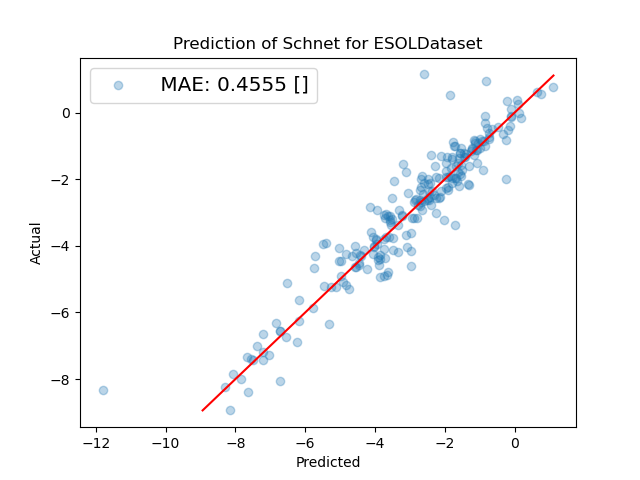
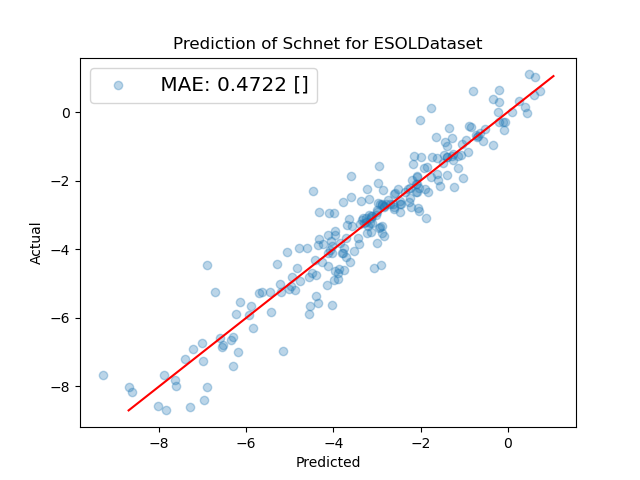
removed gen base and default.py

diff --git a/training/train_moleculenet.py b/training/train_moleculenet.py
@@ -20,11 +20,11 @@ from kgcnn.utils.plots import plot_train_test_loss, plot_predict_true
 # From command line, one can specify the model, dataset and the hyperparameter which contain all configuration
 # for training and model setup.
 parser = argparse.ArgumentParser(description='Train a GNN on a Molecule dataset.')
-parser.add_argument("--model", required=False, help="Graph model to train.", default="HamNet")
+parser.add_argument("--model", required=False, help="Graph model to train.", default="Schnet")
 parser.add_argument("--dataset", required=False, help="Name of the dataset or leave empty for custom dataset.",
-                    default="LipopDataset")
+                    default="ESOLDataset")
 parser.add_argument("--hyper", required=False, help="Filepath to hyper-parameter config file (.py or .json).",
-                    default="hyper/hyper_lipop.py")
+                    default="hyper/hyper_esol.py")
 parser.add_argument("--make", required=False, help="Name of the make function for model.",
                     default="make_model")
 args = vars(parser.parse_args())
